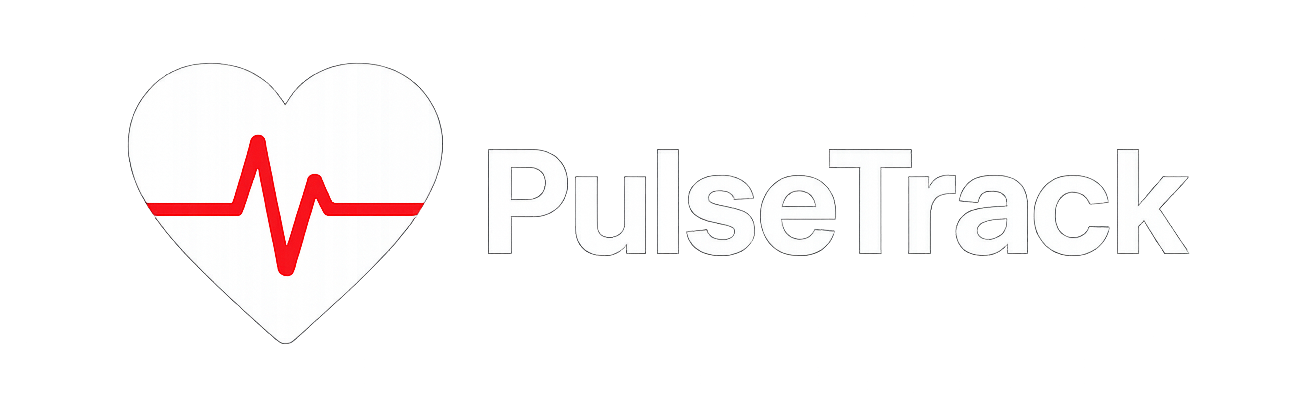
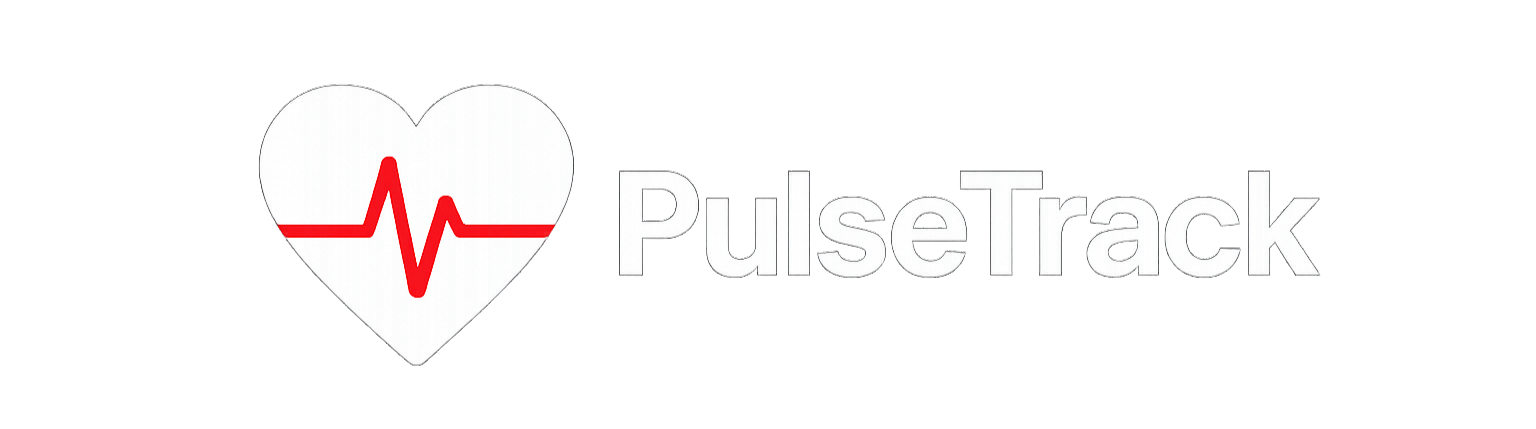
fourteenth Commit

diff --git a/templates/about.html b/templates/about.html
@@ -1,18 +1,43 @@
 {% extends 'base_home.html' %}
+{% load static %}
 
-{% block title %}About - Hospital Management System{% endblock %}
+{% block title %}About - PulseTrack Hospital Management System{% endblock %}
 
 {% block content %}
-<div class="container mt-5">
-  <h2 class="mb-3 text-center">About Us</h2>
-  <p class="lead text-center">
-    Welcome to our Hospital Management System. Our goal is to provide an efficient and user-friendly platform for managing hospital operations.
-  </p>
-  <p>
-    This system helps administrators, doctors, patients, and receptionists manage appointments, patient records, and billing seamlessly.
-  </p>
-  <div class="text-center mt-4">
-    <img src="https://cdn-icons-png.flaticon.com/512/2966/2966327.png" alt="Hospital Logo" width="120">
+<style>
+  html, body {
+    height: 100%;
+    margin: 0;
+    overflow: hidden; /* Prevents scrolling */
+  }
+
+  body {
+    background: url("{% static 'about (2).jpg' %}") no-repeat center center fixed;
+    background-size: cover;
+  }
+
+  .about-section {
+    transform: translateY(-100px); /* Moves box higher */
+  }
+</style>
+
+<div class="container-fluid d-flex justify-content-center align-items-center vh-100">
+  <div class="text-center p-4 rounded-4 about-section" >
+    <h2 class="mb-3 fw-bold text-light">PulseTrack</h2>
+
+    <p class="lead text-light">
+      Welcome to <strong>PulseTrack</strong> — a modern Hospital Management System designed to make healthcare smarter, faster, and more organized.
+    </p>
+
+    <p class="text-light">
+      Our mission is to connect healthcare professionals, staff, and patients through a single, unified platform — ensuring faster care, better communication, and accurate records.
+      Whether you’re an administrator managing hospital operations or a patient booking an appointment, PulseTrack helps you stay in control.
+    </p>
+
+    <p class="text-light mb-0">
+      Built with reliability, performance, and user-friendliness in mind, PulseTrack empowers hospitals to focus on what truly matters — 
+      <strong>delivering quality healthcare.</strong>
+    </p>
   </div>
 </div>
 {% endblock %}

diff --git a/templates/view_receptionists.html b/templates/view_receptionists.html
@@ -7,33 +7,10 @@
 <div class="container mt-5">
   <h2 class="text-center fw-bold mb-4">Receptionists List</h2>
 
-  {% if messages %}
-    {% for message in messages %}
-      <div class="alert alert-success alert-dismissible fade show" role="alert">
-        {{ message }}
-        <button type="button" class="btn-close" data-bs-dismiss="alert"></button>
-      </div>
-    {% endfor %}
-  {% endif %}
 
-  <!-- 🔍 Search Bar (Bootstrap styled) -->
-  <div class="row mb-4 justify-content-end">
-    <div class="col-md-6 col-lg-4">
-      <form method="GET" class="input-group shadow-sm">
-        <input 
-          type="text" 
-          name="search" 
-          value="{{ request.GET.search }}" 
-          class="form-control" 
-          placeholder="Search receptionists..."
-          aria-label="Search receptionists"
-        >
-        <button type="submit" class="btn btn-dark px-4">
-          <i class="bi bi-search"></i> Search
-        </button>
-      </form>
-    </div>
-  </div>
+
+ 
+  
 
   <div class="card shadow border-0">
     <div class="card-body p-4">
@@ -55,7 +32,8 @@
               <td>{{ r.email }}</td>
               <td>
                 <a href="{% url 'delete_receptionist' r.id %}" 
-                   class="btn btn-danger btn-sm">
+                   class="btn btn-danger btn-md px-4 py-2 fw-semibold">
+                  <i class="bi bi-trash3"></i> Delete
                 </a>
               </td>
             </tr>

diff --git a/templates/contact.html b/templates/contact.html
@@ -1,8 +1,20 @@
 {% extends 'base_home.html' %}
+{% load static %}
 
 {% block title %}Contact - Hospital Management System{% endblock %}
 
 {% block content %}
+<style>
+  body {
+    background: url("{% static 'contactus.jpg' %}") no-repeat center center fixed;
+    background-size: cover;
+  }
+   .btn-dark:hover {
+    background-color: #28a745 !important; /* green on hover */
+    border-color: #28a745 !important;
+  }
+</style>
+
 <div class="container mt-5">
   <h2 class="mb-3 text-center">Contact Us</h2>
   <p class="lead text-center">We’d love to hear from you! Reach us using the form below.</p>
@@ -20,12 +32,12 @@
       <label for="message" class="form-label">Message</label>
       <textarea class="form-control" id="message" rows="4" placeholder="Your message here..."></textarea>
     </div>
-    <button type="submit" class="btn btn-primary w-100">Send Message</button>
+    <button type="submit" class="btn btn-dark w-100">Send Message</button>
   </form>
 
   <div class="text-center mt-4">
-    <p><i class="bi bi-telephone"></i> +91 98765 43210</p>
-    <p><i class="bi bi-envelope"></i> support@hospitalms.com</p>
+    <p><i class="bi bi-telephone"></i> +91 9645492417</p>
+    <p><i class="bi bi-envelope"></i> support@pulsetrack.com</p>
   </div>
 </div>
 {% endblock %}

diff --git a/templates/home.html b/templates/home.html
@@ -1,7 +1,30 @@
 {% extends 'base_home.html' %}
+{% load static %}
 
 {% block title %}Home{% endblock %}
 
 {% block content %}
-<h3>Home Page</h3>
+<style>
+  body {
+    background: url("{% static 'Home.jpg' %}") no-repeat center center fixed;
+    background-size: cover;
+    height: 100vh;
+  }
+
+  .home-container {
+    
+    padding: 200px;
+    
+    text-align: end;
+    margin-top: 100px;
+    
+  }
+</style>
+
+<div class="container">
+  <div class="home-container">
+    <h1 class="fw-bold text-dark">Welcome to PulseTrack</h1>
+    <p class="lead">Your trusted Hospital Management System</p>
+  </div>
+</div>
 {% endblock %}

diff --git a/templates/base_patient.html b/templates/base_patient.html
@@ -17,11 +17,10 @@
   <div class="container">
 
     <!-- Left: Logo -->
-    <a class="navbar-brand d-flex align-items-center fw-bold" href="{% url 'patient_home' %}">
-      <img src="{% static 'PulseTrack.png' %}" alt="PulseTrack" height="40" class="me-2">
+   <a class="navbar-brand d-flex align-items-center" href="#">
+      <img src="{% static 'PulseTrack.png' %}" alt="PulseTrack" width="220px" height="60px" >
       
     </a>
-
     <!-- Mobile Toggle -->
     <button class="navbar-toggler" type="button" data-bs-toggle="collapse" data-bs-target="#navbarNav">
       <span class="navbar-toggler-icon"></span>

diff --git a/templates/receptionist_base.html b/templates/receptionist_base.html
@@ -18,9 +18,10 @@
     <div class="container py-2">
 
       <!-- Logo (Left) -->
-      <a class="navbar-brand d-flex align-items-center" href="#">
-        <img src="{% static 'PulseTrack.png' %}" alt="Logo" height="40" class="me-2">
-      </a>
+     <a class="navbar-brand d-flex align-items-center" href="#">
+      <img src="{% static 'PulseTrack.png' %}" alt="PulseTrack" width="220px" height="60px" >
+      
+    </a>
 
       <!-- Mobile Toggle -->
       <button class="navbar-toggler" type="button" data-bs-toggle="collapse" data-bs-target="#navbarNavDropdown">

diff --git a/templates/doctor_base.html b/templates/doctor_base.html
@@ -19,9 +19,9 @@
 
     <!-- Brand -->
     <a class="navbar-brand d-flex align-items-center" href="#">
-      <img src="{% static 'PulseTrack.png' %}" alt="PulseTrack" height="500px">
+      <img src="{% static 'PulseTrack.png' %}" alt="PulseTrack" width="220px" height="50px" >
+      
     </a>
-
     <!-- Mobile toggle -->
     <button class="navbar-toggler" type="button" data-bs-toggle="collapse" data-bs-target="#navbarDoctor">
       <span class="navbar-toggler-icon"></span>

diff --git a/templates/base_home.html b/templates/base_home.html
@@ -17,8 +17,8 @@
   <div class="container">
     
     <!-- 🩺 Left: Brand / Logo -->
-    <a class="navbar-brand d-flex align-items-center" href="{% url 'home' %}">
-      <img src="{% static 'PulseTrack.png' %}" alt="PulseTrack" height="40" >
+     <a class="navbar-brand d-flex align-items-center" href="#">
+      <img src="{% static 'PulseTrack.png' %}" alt="PulseTrack" width="220px" height="60px" >
       
     </a>
 

diff --git a/templates/add_receptionist.html b/templates/add_receptionist.html
@@ -7,7 +7,7 @@
 
 <link rel="stylesheet" href="{% static 'hms.css' %}">
 
-<div class="container d-flex justify-content-center align-items-center" style="min-height: 80vh;">
+<div class="container d-flex justify-content-center align-items-center" style="min-height: 70vh;">
   <div class="card shadow border-0" style="max-width: 600px; width: 100%; border-radius: 10px;">
     
     <!-- Header -->

diff --git a/templates/base_admin.html b/templates/base_admin.html
@@ -20,7 +20,7 @@
 
     <!-- Logo and Admin text -->
     <a class="navbar-brand d-flex align-items-center" href="#">
-      <img src="{% static 'PulseTrack.png' %}" alt="PulseTrack" width="auto" height="40px" >
+      <img src="{% static 'PulseTrack.png' %}" alt="PulseTrack" width="220px" height="50px" >
       
     </a>
 
